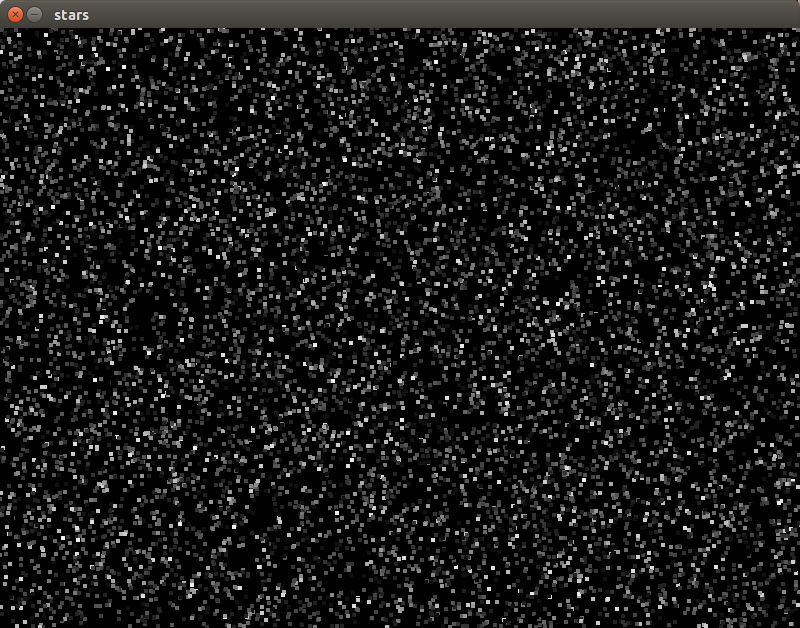
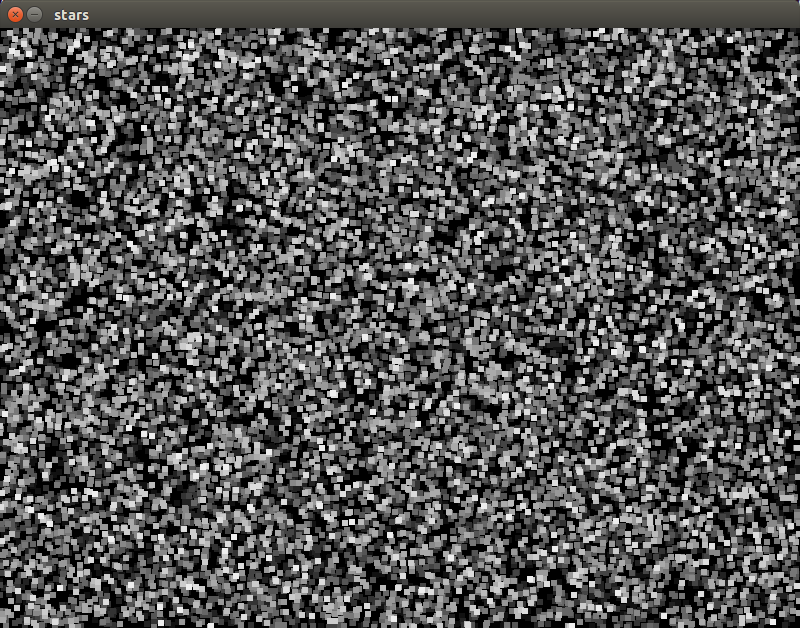
sort stars by brightness for better effect

diff --git a/stars/stars.go b/stars/stars.go
@@ -8,13 +8,14 @@ import (
 	"math/rand"
 	"os"
 	"runtime"
+	"sort"
 )
 
 var winWidth, winHeight int32 = 800, 600
-var starRadius int32 = 2
+var starRadius int32 = 3
 var starBrightnessDecay float64 = 0.001
 var starBrightnessThreshold float64 = 0.05
-var numStars int = 10000
+var numStars int = 20000
 
 /* the smallest type of thing is a
 ███████╗████████╗ █████╗ ██████╗
@@ -48,6 +49,23 @@ func (s *Star) Life() {
 	}
 }
 
+type starSlice []*Star
+
+// Len is part of sort.Interface.
+func (d starSlice) Len() int {
+	return len(d)
+}
+
+// Swap is part of sort.Interface.
+func (d starSlice) Swap(i, j int) {
+	d[i], d[j] = d[j], d[i]
+}
+
+// Less is part of sort.Interface. We use B as the value to sort by
+func (d starSlice) Less(i, j int) bool {
+	return d[i].B < d[j].B
+}
+
 /* there is one radar for the whole
  ██████╗  █████╗ ███╗   ███╗███████╗
 ██╔════╝ ██╔══██╗████╗ ████║██╔════╝
@@ -68,7 +86,7 @@ type Game struct {
 	/* public */
 	Name string
 	/* private: Stars */
-	m_Stars []*Star
+	m_Stars starSlice
 	/* private */
 	m_State StateEnum
 	nowMs   uint32
@@ -179,6 +197,8 @@ func (g *Game) Render() {
 }
 
 func (g *Game) RenderStarsToScreenSurface() int {
+	// First, sort the stars (by brightness) for optimal rendering
+	sort.Sort(g.m_Stars)
 	for _, star := range g.m_Stars {
 		star.RenderToSurface(g.sdlScreenSurface)
 		star.Life()
